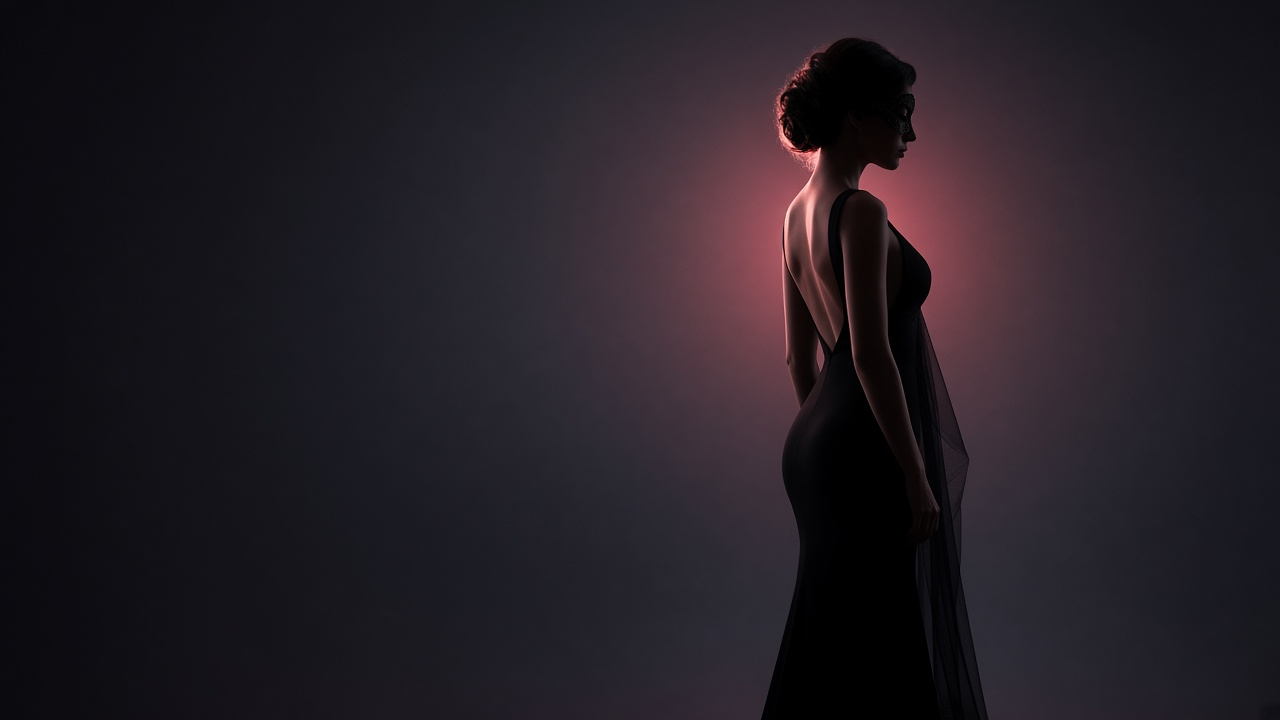
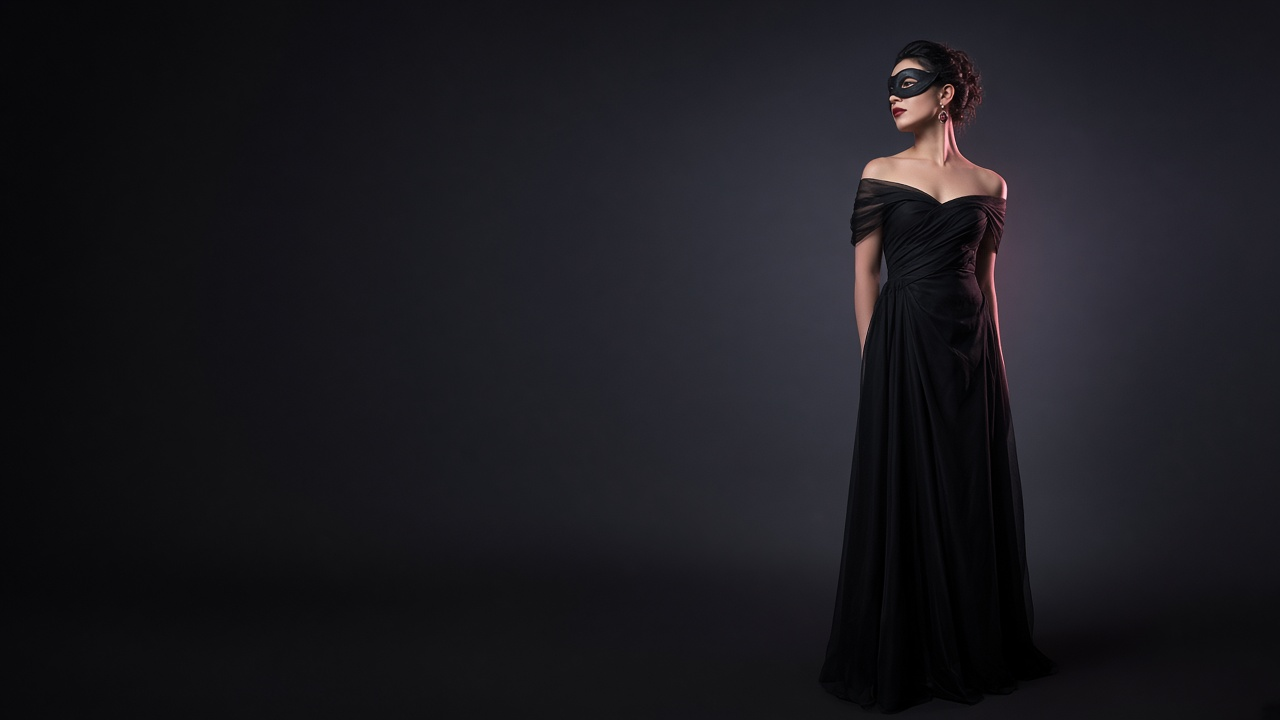
Fix hero crop and keep venue cards on mood lounge interiors
Replace the ambiguous hero plate with a clearer masked female
silhouette on dark studio negative space, expand the mood lounge
pool, and stop assigning the hero portrait to directory cards.

Changed region(s): [[0.4375, 0.0306, 0.9062, 1.0]]

diff --git a/lib/luxury-assets.ts b/lib/luxury-assets.ts
@@ -8,11 +8,14 @@ import {
   portraitForEthnicity,
 } from "@/lib/staff-image-map";
 
+/** Venue card + gallery pool — interiors only (never staff/hero portraits). */
 export const LUXURY_LOUNGES = [
   "/images/lounges/mood-01-velvet.jpg",
   "/images/lounges/mood-02-suite.jpg",
   "/images/lounges/mood-03-cocktail.jpg",
-  "/images/hero/studio-silhouette.jpg",
+  "/images/lounges/mood-04-spa.jpg",
+  "/images/lounges/mood-05-members.jpg",
+  "/images/lounges/mood-06-boutique.jpg",
 ] as const;
 
 /** Female masked glamour portraits only. */
@@ -44,12 +47,8 @@ export function luxuryPortraitFor(seed: string, offset = 0): string {
 
 export function shouldReplaceCover(url?: string | null): boolean {
   if (!url?.trim()) return true;
-  if (
-    url.startsWith("/images/lounges/mood-") ||
-    url === "/images/hero/studio-silhouette.jpg"
-  ) {
-    return false;
-  }
+  if (url.startsWith("/images/lounges/mood-")) return false;
+  if (url === "/images/hero/studio-silhouette.jpg") return true; // hero-only asset
   if (url.startsWith("/images/") && !url.includes("/staff/")) return true;
   if (BLOCKED_COVER_PATTERNS.test(url)) return true;
   if (/unsplash\.com\/photo-/i.test(url)) return true;

diff --git a/components/hero.tsx b/components/hero.tsx
@@ -39,17 +39,17 @@ export function Hero() {
           fill
           priority
           sizes="100vw"
-          className="object-cover object-[68%_center] opacity-75 contrast-[1.05] saturate-[1.05] md:object-[72%_center]"
+          className="object-cover object-[85%_center] opacity-90 contrast-[1.04] saturate-[1.02] md:object-[88%_center]"
         />
       </div>
 
-      {/* Deep dark luxury overlay */}
+      {/* Deep dark luxury overlay — keep left readable, silhouette visible on right */}
       <div
-        className="hero-shade pointer-events-none absolute inset-0 bg-gradient-to-b from-slate-950/80 via-slate-900/90 to-slate-950"
+        className="hero-shade pointer-events-none absolute inset-0 bg-gradient-to-b from-slate-950/75 via-slate-900/55 to-slate-950"
         aria-hidden
       />
       <div
-        className="pointer-events-none absolute inset-0 bg-gradient-to-r from-slate-950 via-slate-950/70 to-transparent md:w-[68%]"
+        className="pointer-events-none absolute inset-y-0 left-0 w-full bg-gradient-to-r from-slate-950 via-slate-950/85 to-transparent md:w-[62%]"
         aria-hidden
       />
 
